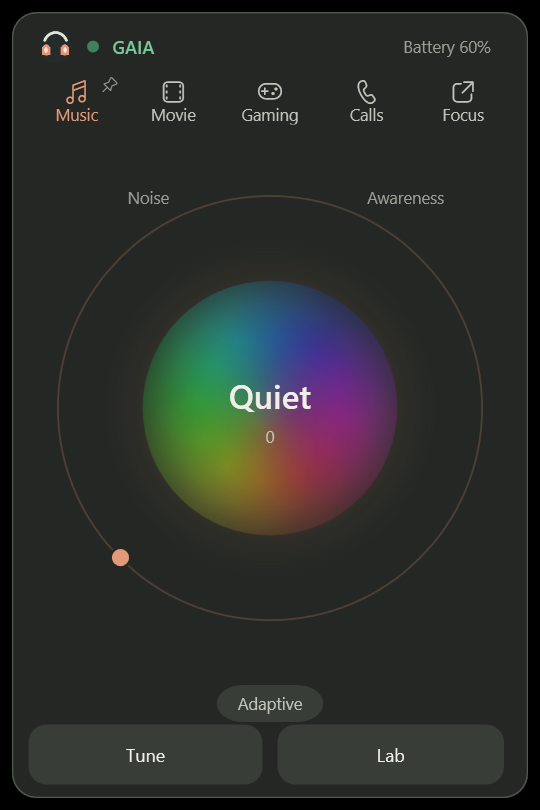
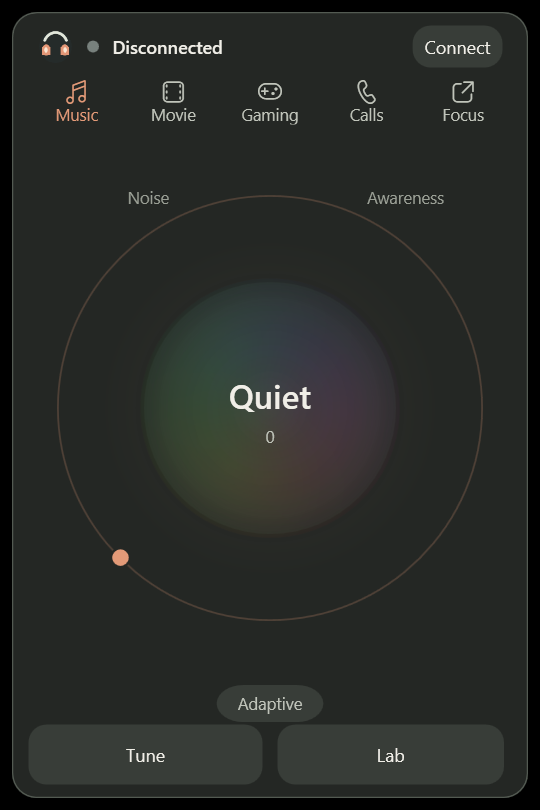
Polish Tune screen and headset header

diff --git a/Views/MainWindow.xaml b/Views/MainWindow.xaml
@@ -47,7 +47,7 @@
                        AutomationProperties.Name="Sennheiser headset widget icon"/>
                 <Ellipse Grid.Column="1" Width="8" Height="8" Fill="{Binding ConnectionBrush}"
                          VerticalAlignment="Center" Margin="0,0,9,0"/>
-                <TextBlock Grid.Column="2" Text="{Binding StatusText}"
+                <TextBlock Grid.Column="2" Text="{Binding HeaderText}"
                            Foreground="{Binding StatusForeground}" FontSize="12"
                            FontWeight="SemiBold" VerticalAlignment="Center"
                            TextTrimming="CharacterEllipsis"/>
@@ -101,12 +101,12 @@
                                                        HorizontalAlignment="Center"/>
                                         </StackPanel>
                                     </ToggleButton>
-                                    <Button Grid.ZIndex="1" Width="18" Height="18" Padding="0"
+                                    <Button x:Name="ModePinButton" Grid.ZIndex="1" Width="18" Height="18" Padding="0"
                                             HorizontalAlignment="Right" VerticalAlignment="Top"
                                             Margin="0,0,1,1" Content="&#xE840;"
                                             FontFamily="Segoe Fluent Icons, Segoe MDL2 Assets"
                                             Style="{StaticResource ModePinButtonStyle}"
-                                            Visibility="{Binding IsSelected, Converter={StaticResource BooleanToVisibilityConverter}}"
+                                            Visibility="{Binding IsMouseOver, RelativeSource={RelativeSource AncestorType={x:Type Grid}}, Converter={StaticResource BooleanToVisibilityConverter}}"
                                             ToolTip="{Binding DataContext.ModePinText, RelativeSource={RelativeSource AncestorType={x:Type Window}}}"
                                             Command="{Binding DataContext.ToggleModePinCommand, RelativeSource={RelativeSource AncestorType={x:Type Window}}}"
                                             AutomationProperties.Name="{Binding DataContext.ModePinActionText, RelativeSource={RelativeSource AncestorType={x:Type Window}}}"/>
@@ -152,34 +152,23 @@
                 <Border x:Name="TuneDrawer" Style="{StaticResource TuneDrawerPanelStyle}"
                         Margin="0" Background="{DynamicResource AppBackgroundBrush}">
                     <ScrollViewer VerticalScrollBarVisibility="Auto"
-                                  HorizontalScrollBarVisibility="Disabled" Padding="14,6,14,12">
+                                  HorizontalScrollBarVisibility="Disabled" Padding="14,6,14,12"
+                                  Margin="0,0,4,0">
                         <StackPanel>
                             <DockPanel Margin="0,0,0,12">
                                 <Button Content="Back" Command="{Binding CloseDrawerCommand}"
                                         Style="{StaticResource ActionButtonStyle}" DockPanel.Dock="Right"/>
+                                <Button Content="Reset flat" Command="{Binding ResetEqCommand}"
+                                        Style="{StaticResource ActionButtonStyle}" DockPanel.Dock="Right"
+                                        Margin="8,0,0,0"/>
                                 <TextBlock Text="Tune" Foreground="{DynamicResource TextPrimaryBrush}"
                                            FontSize="20" FontWeight="SemiBold" VerticalAlignment="Center"/>
                             </DockPanel>
 
-                            <Grid Margin="0,0,0,8">
-                                <Grid.ColumnDefinitions>
-                                    <ColumnDefinition Width="*"/>
-                                    <ColumnDefinition Width="Auto"/>
-                                </Grid.ColumnDefinitions>
-                                <StackPanel Grid.Column="0">
-                                    <TextBlock Text="EQUALIZER" Foreground="{DynamicResource TextSecondaryBrush}"
-                                               FontSize="11" FontWeight="Bold"/>
-                                    <TextBlock Text="Shape your sound" Foreground="{DynamicResource TextPrimaryBrush}"
-                                               FontSize="16" FontWeight="SemiBold" Margin="0,3,0,0"/>
-                                </StackPanel>
-                                <Button Grid.Column="1" Content="Reset flat" Command="{Binding ResetEqCommand}"
-                                        Style="{StaticResource ActionButtonStyle}" VerticalAlignment="Center"
-                                        Margin="12,0,0,0"/>
-                            </Grid>
-
                             <Border Background="{DynamicResource EqGraphBackgroundBrush}" BorderThickness="0"
                                     CornerRadius="8" Padding="4" Margin="0,0,0,8">
-                                <local:EqGraphControl Values="{Binding EqValues}" Height="150"/>
+                                <local:EqGraphControl Values="{Binding EqValues}"
+                                                      AccentBrush="{DynamicResource AccentBrush}" Height="110"/>
                             </Border>
                             <Grid Margin="3,0,3,6">
                                 <Grid.ColumnDefinitions>
@@ -196,29 +185,29 @@
                             <TextBlock Text="−6 to +6 dB" Foreground="{DynamicResource TextMutedBrush}"
                                        FontSize="11" HorizontalAlignment="Right" Margin="0,0,2,2"/>
                             <DockPanel Margin="0,3">
-                                <TextBlock Text="Bass" Foreground="{DynamicResource EqBandLabelBrush}" Width="48" FontSize="12" VerticalAlignment="Center"/>
+                                <TextBlock Text="Bass" Foreground="{DynamicResource EqBandLabelBrush}" Width="64" FontSize="12" VerticalAlignment="Center"/>
                                 <TextBlock Text="{Binding Eq1Text}" Foreground="{DynamicResource AccentBrush}" Width="48" DockPanel.Dock="Right" TextAlignment="Right" FontSize="11" VerticalAlignment="Center"/>
-                                <Slider Minimum="-60" Maximum="60" Value="{Binding EqValues[0], Mode=TwoWay, UpdateSourceTrigger=PropertyChanged}" TickFrequency="5" IsSnapToTickEnabled="True" Style="{StaticResource GlowSliderStyle}"/>
+                                <Slider Minimum="-60" Maximum="60" Value="{Binding EqValues[0], Mode=TwoWay, UpdateSourceTrigger=PropertyChanged}" TickFrequency="5" IsSnapToTickEnabled="True" Style="{StaticResource EqSliderStyle}"/>
                             </DockPanel>
                             <DockPanel Margin="0,3">
-                                <TextBlock Text="Low mid" Foreground="{DynamicResource EqBandLabelBrush}" Width="48" FontSize="12" VerticalAlignment="Center"/>
+                                <TextBlock Text="Low mid" Foreground="{DynamicResource EqBandLabelBrush}" Width="64" FontSize="12" VerticalAlignment="Center"/>
                                 <TextBlock Text="{Binding Eq2Text}" Foreground="{DynamicResource AccentBrush}" Width="48" DockPanel.Dock="Right" TextAlignment="Right" FontSize="11" VerticalAlignment="Center"/>
-                                <Slider Minimum="-60" Maximum="60" Value="{Binding EqValues[1], Mode=TwoWay, UpdateSourceTrigger=PropertyChanged}" TickFrequency="5" IsSnapToTickEnabled="True" Style="{StaticResource GlowSliderStyle}"/>
+                                <Slider Minimum="-60" Maximum="60" Value="{Binding EqValues[1], Mode=TwoWay, UpdateSourceTrigger=PropertyChanged}" TickFrequency="5" IsSnapToTickEnabled="True" Style="{StaticResource EqSliderStyle}"/>
                             </DockPanel>
                             <DockPanel Margin="0,3">
-                                <TextBlock Text="Mid" Foreground="{DynamicResource EqBandLabelBrush}" Width="48" FontSize="12" VerticalAlignment="Center"/>
+                                <TextBlock Text="Mid" Foreground="{DynamicResource EqBandLabelBrush}" Width="64" FontSize="12" VerticalAlignment="Center"/>
                                 <TextBlock Text="{Binding Eq3Text}" Foreground="{DynamicResource AccentBrush}" Width="48" DockPanel.Dock="Right" TextAlignment="Right" FontSize="11" VerticalAlignment="Center"/>
-                                <Slider Minimum="-60" Maximum="60" Value="{Binding EqValues[2], Mode=TwoWay, UpdateSourceTrigger=PropertyChanged}" TickFrequency="5" IsSnapToTickEnabled="True" Style="{StaticResource GlowSliderStyle}"/>
+                                <Slider Minimum="-60" Maximum="60" Value="{Binding EqValues[2], Mode=TwoWay, UpdateSourceTrigger=PropertyChanged}" TickFrequency="5" IsSnapToTickEnabled="True" Style="{StaticResource EqSliderStyle}"/>
                             </DockPanel>
                             <DockPanel Margin="0,3">
-                                <TextBlock Text="High mid" Foreground="{DynamicResource EqBandLabelBrush}" Width="48" FontSize="12" VerticalAlignment="Center"/>
+                                <TextBlock Text="High mid" Foreground="{DynamicResource EqBandLabelBrush}" Width="64" FontSize="12" VerticalAlignment="Center"/>
                                 <TextBlock Text="{Binding Eq4Text}" Foreground="{DynamicResource AccentBrush}" Width="48" DockPanel.Dock="Right" TextAlignment="Right" FontSize="11" VerticalAlignment="Center"/>
-                                <Slider Minimum="-60" Maximum="60" Value="{Binding EqValues[3], Mode=TwoWay, UpdateSourceTrigger=PropertyChanged}" TickFrequency="5" IsSnapToTickEnabled="True" Style="{StaticResource GlowSliderStyle}"/>
+                                <Slider Minimum="-60" Maximum="60" Value="{Binding EqValues[3], Mode=TwoWay, UpdateSourceTrigger=PropertyChanged}" TickFrequency="5" IsSnapToTickEnabled="True" Style="{StaticResource EqSliderStyle}"/>
                             </DockPanel>
                             <DockPanel Margin="0,3,0,8">
-                                <TextBlock Text="Treble" Foreground="{DynamicResource EqBandLabelBrush}" Width="48" FontSize="12" VerticalAlignment="Center"/>
+                                <TextBlock Text="Treble" Foreground="{DynamicResource EqBandLabelBrush}" Width="64" FontSize="12" VerticalAlignment="Center"/>
                                 <TextBlock Text="{Binding Eq5Text}" Foreground="{DynamicResource AccentBrush}" Width="48" DockPanel.Dock="Right" TextAlignment="Right" FontSize="11" VerticalAlignment="Center"/>
-                                <Slider Minimum="-60" Maximum="60" Value="{Binding EqValues[4], Mode=TwoWay, UpdateSourceTrigger=PropertyChanged}" TickFrequency="5" IsSnapToTickEnabled="True" Style="{StaticResource GlowSliderStyle}"/>
+                                <Slider Minimum="-60" Maximum="60" Value="{Binding EqValues[4], Mode=TwoWay, UpdateSourceTrigger=PropertyChanged}" TickFrequency="5" IsSnapToTickEnabled="True" Style="{StaticResource EqSliderStyle}"/>
                             </DockPanel>
 
                             <Grid Margin="0,5,0,5">

diff --git a/Themes/Controls.xaml b/Themes/Controls.xaml
@@ -107,6 +107,45 @@
             </Setter.Value>
         </Setter>
     </Style>
+    <Style x:Key="EqSliderTrackButtonStyle" TargetType="RepeatButton">
+        <Setter Property="Focusable" Value="False"/>
+        <Setter Property="Template">
+            <Setter.Value>
+                <ControlTemplate TargetType="RepeatButton">
+                    <Border Height="4" Background="{DynamicResource SurfaceRaisedBrush}"
+                            CornerRadius="2" VerticalAlignment="Center"/>
+                </ControlTemplate>
+            </Setter.Value>
+        </Setter>
+    </Style>
+    <Style x:Key="EqSliderStyle" TargetType="Slider" BasedOn="{StaticResource GlowSliderStyle}">
+        <Setter Property="Template">
+            <Setter.Value>
+                <ControlTemplate TargetType="Slider">
+                    <Grid VerticalAlignment="Center">
+                        <Track x:Name="PART_Track"
+                               Minimum="{TemplateBinding Minimum}"
+                               Maximum="{TemplateBinding Maximum}"
+                               Value="{TemplateBinding Value}"
+                               Orientation="{TemplateBinding Orientation}"
+                               IsDirectionReversed="{TemplateBinding IsDirectionReversed}">
+                            <Track.DecreaseRepeatButton>
+                                <RepeatButton Command="{x:Static Slider.DecreaseLarge}"
+                                              Style="{StaticResource EqSliderTrackButtonStyle}"/>
+                            </Track.DecreaseRepeatButton>
+                            <Track.Thumb>
+                                <Thumb Style="{DynamicResource SliderThumbStyle}"/>
+                            </Track.Thumb>
+                            <Track.IncreaseRepeatButton>
+                                <RepeatButton Command="{x:Static Slider.IncreaseLarge}"
+                                              Style="{StaticResource EqSliderTrackButtonStyle}"/>
+                            </Track.IncreaseRepeatButton>
+                        </Track>
+                    </Grid>
+                </ControlTemplate>
+            </Setter.Value>
+        </Setter>
+    </Style>
     <Style x:Key="AdaptivePillStyle" TargetType="Button" BasedOn="{StaticResource ActionButtonStyle}">
         <Setter Property="Foreground" Value="{DynamicResource TextSecondaryBrush}"/>
         <Setter Property="BorderBrush" Value="Transparent"/>
@@ -323,8 +362,8 @@
     </Style>
 
     <Style TargetType="ScrollBar">
-        <Setter Property="Width" Value="8"/>
-        <Setter Property="Background" Value="{DynamicResource SurfaceBrush}"/>
+        <Setter Property="Width" Value="6"/>
+        <Setter Property="Background" Value="Transparent"/>
         <Setter Property="Template">
             <Setter.Value>
                 <ControlTemplate TargetType="ScrollBar">
@@ -342,12 +381,12 @@
                                               BorderThickness="0"/>
                             </Track.DecreaseRepeatButton>
                             <Track.Thumb>
-                                <Thumb MinHeight="28" Margin="1,2"
-                                       Background="{DynamicResource TextMutedBrush}">
+                                <Thumb MinHeight="28" Margin="1,3"
+                                       Background="{DynamicResource ControlBorderBrush}">
                                     <Thumb.Template>
                                         <ControlTemplate TargetType="Thumb">
                                             <Border Background="{TemplateBinding Background}"
-                                                    CornerRadius="4"/>
+                                                    CornerRadius="3"/>
                                         </ControlTemplate>
                                     </Thumb.Template>
                                 </Thumb>

diff --git a/Controls/EqGraphControl.xaml b/Controls/EqGraphControl.xaml
@@ -1,8 +1,8 @@
 <UserControl x:Class="SennheiserTray.EqGraphControl"
              xmlns="http://schemas.microsoft.com/winfx/2006/xaml/presentation"
              xmlns:x="http://schemas.microsoft.com/winfx/2006/xaml"
-             MinHeight="150">
-    <Canvas x:Name="GraphCanvas" Height="150" ClipToBounds="True"
+             MinHeight="110">
+    <Canvas x:Name="GraphCanvas" Height="110" ClipToBounds="True"
             SizeChanged="GraphCanvas_SizeChanged"
             MouseLeftButtonDown="GraphCanvas_MouseLeftButtonDown"
             MouseMove="GraphCanvas_MouseMove"

diff --git a/Controls/EqGraphControl.xaml.cs b/Controls/EqGraphControl.xaml.cs
@@ -19,6 +19,12 @@ namespace SennheiserTray
             typeof(EqGraphControl),
             new PropertyMetadata(null, OnValuesChanged));
 
+        public static readonly DependencyProperty AccentBrushProperty = DependencyProperty.Register(
+            nameof(AccentBrush),
+            typeof(System.Windows.Media.Brush),
+            typeof(EqGraphControl),
+            new PropertyMetadata(null, OnAccentBrushChanged));
+
         private int _draggingBand = -1;
         private int _hoveredBand = -1;
         private Point _lastPointer = new(-1, -1);
@@ -34,6 +40,17 @@ namespace SennheiserTray
             get => (IList<double>?)GetValue(ValuesProperty);
             set => SetValue(ValuesProperty, value);
         }
+
+        public System.Windows.Media.Brush? AccentBrush
+        {
+            get => (System.Windows.Media.Brush?)GetValue(AccentBrushProperty);
+            set => SetValue(AccentBrushProperty, value);
+        }
+
+        private static void OnAccentBrushChanged(
+            DependencyObject dependencyObject,
+            DependencyPropertyChangedEventArgs e) =>
+            ((EqGraphControl)dependencyObject).DrawGraph();
 
         private static void OnValuesChanged(DependencyObject dependencyObject, DependencyPropertyChangedEventArgs e)
         {
@@ -72,6 +89,9 @@ namespace SennheiserTray
             double bottom = height - 14;
             double plotHeight = bottom - top;
             Point[] points = new Point[values.Count];
+            Color accent = GetAccentColor();
+            Color lightAccent = BlendWithWhite(accent, 0.65);
+            Color markerAccent = BlendWithWhite(accent, 0.35);
 
             for (int i = 0; i < values.Count; i++)
             {
@@ -90,7 +110,11 @@ namespace SennheiserTray
                     X2 = right,
                     Y1 = y,
                     Y2 = y,
-                    Stroke = new SolidColorBrush(i == 2 ? Color.FromRgb(66, 97, 116) : Color.FromRgb(37, 53, 67)),
+                    Stroke = new SolidColorBrush(Color.FromArgb(
+                        i == 2 ? (byte)68 : (byte)28,
+                        accent.R,
+                        accent.G,
+                        accent.B)),
                     StrokeThickness = i == 2 ? 1.2 : 0.7,
                     StrokeDashArray = i == 2 ? null : new DoubleCollection { 2, 3 },
                     IsHitTestVisible = false
@@ -105,7 +129,7 @@ namespace SennheiserTray
                     X2 = point.X,
                     Y1 = top,
                     Y2 = bottom,
-                    Stroke = new SolidColorBrush(Color.FromArgb(75, 74, 103, 123)),
+                    Stroke = new SolidColorBrush(Color.FromArgb(22, accent.R, accent.G, accent.B)),
                     StrokeThickness = 0.7,
                     IsHitTestVisible = false
                 });
@@ -131,15 +155,15 @@ namespace SennheiserTray
             {
                 Data = fillGeometry,
                 Fill = new LinearGradientBrush(
-                    Color.FromArgb(75, 47, 201, 244),
-                    Color.FromArgb(3, 47, 201, 244),
+                    Color.FromArgb(65, accent.R, accent.G, accent.B),
+                    Color.FromArgb(3, accent.R, accent.G, accent.B),
                     90),
                 IsHitTestVisible = false
             });
             GraphCanvas.Children.Add(new Path
             {
                 Data = curve,
-                Stroke = new SolidColorBrush(Color.FromRgb(74, 220, 255)),
+                Stroke = new SolidColorBrush(accent),
                 StrokeThickness = 2.2,
                 StrokeStartLineCap = PenLineCap.Round,
                 StrokeEndLineCap = PenLineCap.Round,
@@ -154,8 +178,8 @@ namespace SennheiserTray
                 {
                     GradientStops = new GradientStopCollection
                     {
-                        new GradientStop(Color.FromArgb(65, 50, 201, 255), 0),
-                        new GradientStop(Color.FromArgb(0, 50, 201, 255), 1)
+                        new GradientStop(Color.FromArgb(55, accent.R, accent.G, accent.B), 0),
+                        new GradientStop(Color.FromArgb(0, accent.R, accent.G, accent.B), 1)
                     }
                 },
                 IsHitTestVisible = false,
@@ -177,15 +201,13 @@ namespace SennheiserTray
                 {
                     Width = size,
                     Height = size,
-                    Fill = new SolidColorBrush(hovered
-                        ? Color.FromRgb(222, 251, 255)
-                        : Color.FromRgb(83, 223, 255)),
-                    Stroke = new SolidColorBrush(Color.FromRgb(224, 250, 255)),
+                    Fill = new SolidColorBrush(hovered ? lightAccent : accent),
+                    Stroke = new SolidColorBrush(BlendWithWhite(accent, 0.8)),
                     StrokeThickness = 1.4,
                     Effect = hovered
                         ? new DropShadowEffect
                         {
-                            Color = Color.FromRgb(54, 211, 255),
+                            Color = markerAccent,
                             BlurRadius = 14,
                             ShadowDepth = 0,
                             Opacity = 0.8
@@ -198,6 +220,17 @@ namespace SennheiserTray
                 GraphCanvas.Children.Add(marker);
             }
         }
+
+        private Color GetAccentColor() =>
+            AccentBrush is SolidColorBrush solidBrush
+                ? solidBrush.Color
+                : Colors.SkyBlue;
+
+        private static Color BlendWithWhite(Color color, double amount) =>
+            Color.FromRgb(
+                (byte)(color.R + (byte.MaxValue - color.R) * amount),
+                (byte)(color.G + (byte.MaxValue - color.G) * amount),
+                (byte)(color.B + (byte.MaxValue - color.B) * amount));
 
         private static void AddCurveSegments(PathFigure figure, Point[] points)
         {

diff --git a/ViewModels/HeadphoneViewModel.cs b/ViewModels/HeadphoneViewModel.cs
@@ -317,9 +317,22 @@ namespace SennheiserTray
             {
                 if (SetProperty(ref _statusText, value))
                 {
+                    OnPropertyChanged(nameof(HeaderText));
                     OnPropertyChanged(nameof(StatusForeground));
                     OnPropertyChanged(nameof(ConnectionBrush));
                 }
+            }
+        }
+
+        public string HeaderText
+        {
+            get
+            {
+                string? headsetName = IsConnected
+                    ? _service.ConnectedDeviceName
+                    : Devices.FirstOrDefault(device =>
+                        string.Equals(device.Id, SelectedDeviceId, StringComparison.Ordinal))?.Name;
+                return string.IsNullOrWhiteSpace(headsetName) ? StatusText : headsetName;
             }
         }
 
@@ -450,7 +463,13 @@ namespace SennheiserTray
         public string? SelectedDeviceId
         {
             get => _selectedDeviceId;
-            set => SetProperty(ref _selectedDeviceId, value);
+            set
+            {
+                if (SetProperty(ref _selectedDeviceId, value))
+                {
+                    OnPropertyChanged(nameof(HeaderText));
+                }
+            }
         }
 
         public bool IsConnected
@@ -477,6 +496,7 @@ namespace SennheiserTray
 
                     OnPropertyChanged(nameof(StatusForeground));
                     OnPropertyChanged(nameof(ConnectionBrush));
+                    OnPropertyChanged(nameof(HeaderText));
                     OnPropertyChanged(nameof(ConnectButtonText));
                     OnPropertyChanged(nameof(IsDisconnected));
                     ConnectCommand.NotifyCanExecuteChanged();

diff --git a/Services/SennheiserServices.cs b/Services/SennheiserServices.cs
@@ -38,9 +38,18 @@ namespace SennheiserTray
             string selector = RfcommDeviceService.GetDeviceSelector(
                 RfcommServiceId.FromUuid(SennheiserUuid));
             DeviceInformationCollection devices = await DeviceInformation.FindAllAsync(selector);
-            return devices
-                .Select(device => new SennheiserDevice(device.Id, device.Name))
-                .ToArray();
+            var availableDevices = new List<SennheiserDevice>(devices.Count);
+            foreach (DeviceInformation device in devices)
+            {
+                using RfcommDeviceService? service =
+                    await RfcommDeviceService.FromIdAsync(device.Id);
+                string headsetName = service?.Device?.Name ?? device.Name;
+                availableDevices.Add(new SennheiserDevice(
+                    device.Id,
+                    string.IsNullOrWhiteSpace(headsetName) ? device.Name : headsetName));
+            }
+
+            return availableDevices;
         }
 
         public async Task<bool> ConnectAsync(string deviceId)

diff --git a/ViewModels/HeadphoneViewModel.Connection.cs b/ViewModels/HeadphoneViewModel.Connection.cs
@@ -68,6 +68,7 @@ namespace SennheiserTray
                     ?? devices.FirstOrDefault(
                         device => string.Equals(device.Id, rememberedDeviceId, StringComparison.Ordinal))?.Id
                     ?? (devices.Count == 1 ? devices[0].Id : null);
+                OnPropertyChanged(nameof(HeaderText));
 
                 if (devices.Count == 0)
                 {
